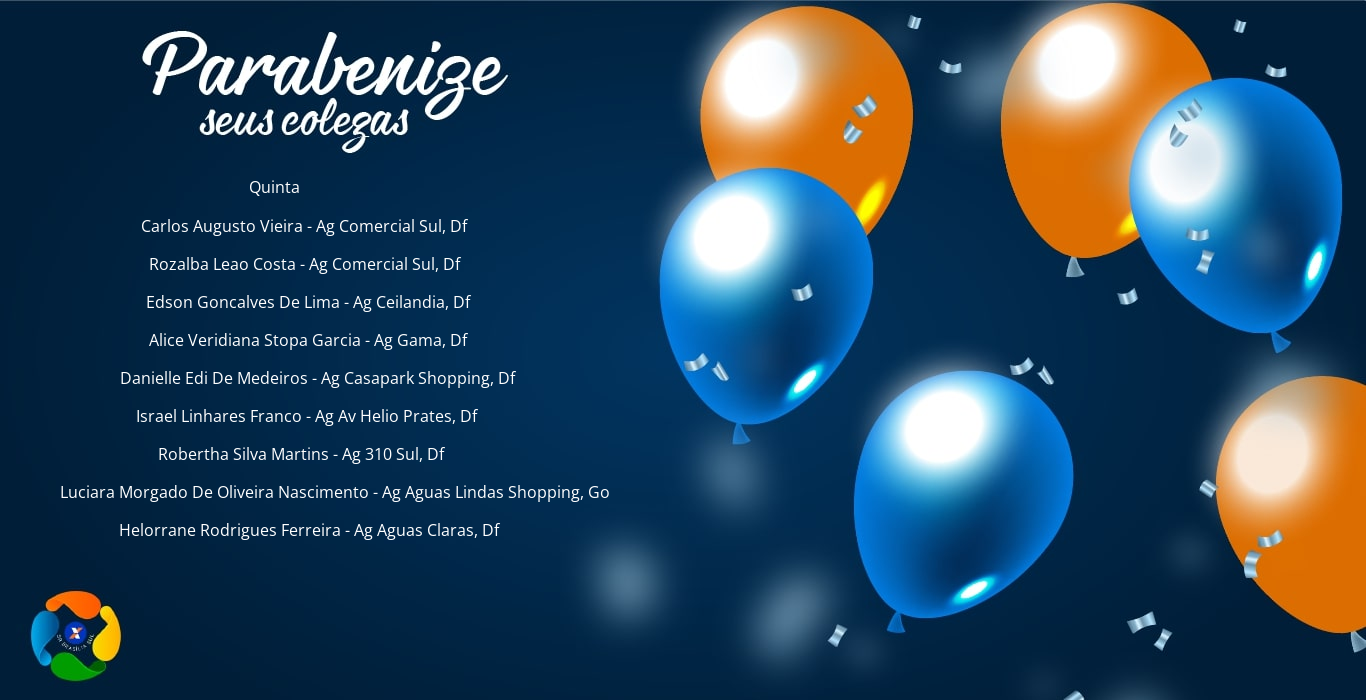
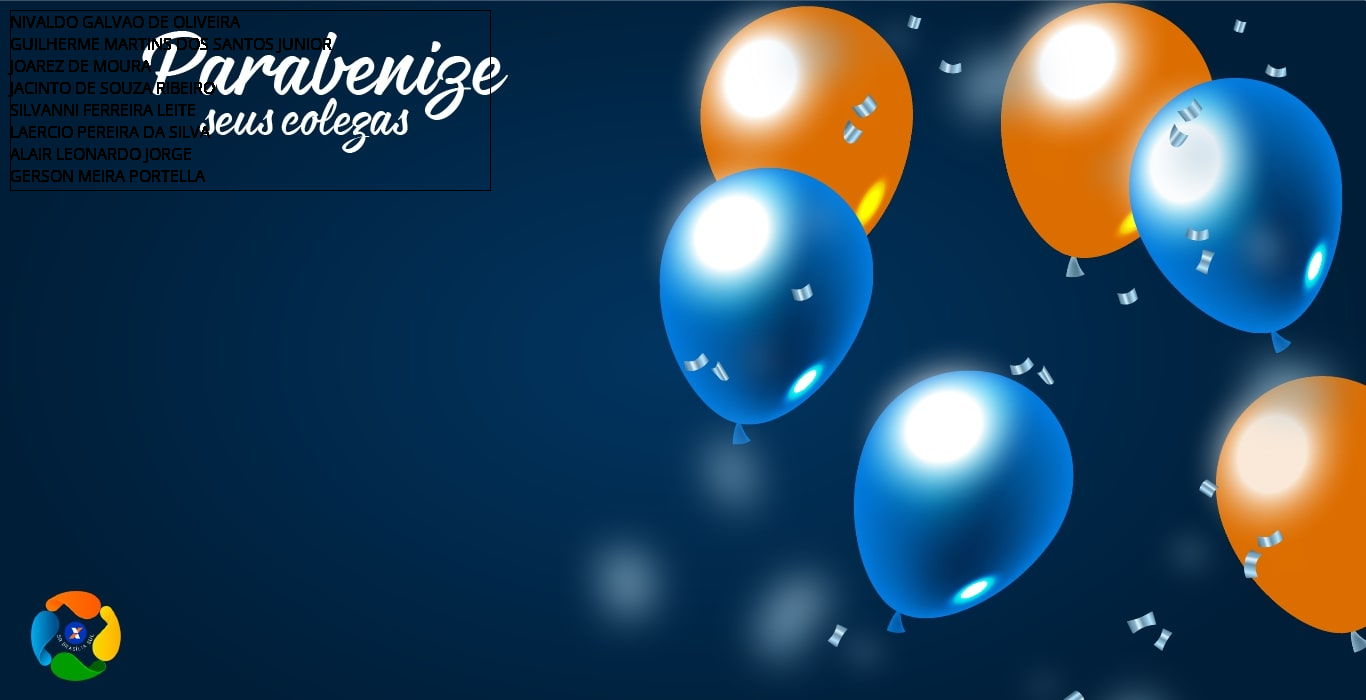
Break lines on text when draw image

diff --git a/main.py b/main.py
@@ -4,6 +4,14 @@ import textwrap
 import pandas as pd
 import datetime
 
+
+def received(mats):
+    text = ""
+    for x in mats:
+        text += x
+    return text
+
+
 outlook = client.Dispatch("Outlook.Application")
 
 df = pd.read_excel(
@@ -15,54 +23,10 @@ df = df[['Nome', 'Data', 'Matrícula']]
 #
 data_list = []
 for i in range(len(df)):
-    data_list.append({"Matrícula": df['Matrícula'][i]})
+    data_list.append({"Matrícula": df['Matrícula'][i], "Nome": df["Nome"][i]})
 
-# print(data_list)
-# index = 0
-# my_image = Image.open(
-#     "images/coletivo.jpg")
-#
-# title_text = []
-# font = ImageFont.truetype(
-#     'BebasNeue-Regular.ttf', 16)
-#
-# fontWeekDay = ImageFont.truetype(
-#     'BebasNeue-Regular.ttf', 22)
-#
-# sortedList = sorted(data_list, key=lambda x: x['dayOfTheWeek'])
-#
-# title_text = ExistingDayOfTheWeek(sortedList)
-
-# fontAss = ImageFont.truetype(
-#     'BebasNeue-Regular.ttf', 18)
-#
-# image_editable = ImageDraw.Draw(my_image)
-#
-# i = 0
-# y = 175
-# width2, height2 = font.getsize(dayWeekText[0])
-
-
-# image_editable.text(((800 - width2) / 3, y-30),
-#                     dayWeekText[0], font=fontWeekDay, fill="white", stroke_width=1, stroke_fill="white", align="baseline")
-# while i < len(title_text):
-#
-#     lines = textwrap.wrap(title_text[i], width=400)
-#     for line in lines:
-#         width, height = font.getsize(line)
-#         print(len(title_text))
-#         image_editable.text(((800 - width) / 3, y),
-#                             line.title(), font=font, fill="white", stroke_width=0, stroke_fill="white",
-#                             align="baseline")
-#         print(((height * 1.5) / (len(title_text))))
-#         y += height * \
-#              2 if len(title_text) < 6 else (
-#             ((height * 19) / (len(title_text))))
-#     i = i + 1
-
-# my_image.save("result.png", optimize=True, quality=100)
 j = 0
-message = outlook.CreateItem(0)
+
 mats = []
 while j < len(data_list):
     mats.append(data_list[j]["Matrícula"])
@@ -75,16 +39,72 @@ while j < len(data_list):
 #     message.BCC = ass['Assinatura'][2]
 #     message.Subject = "Feliz Aniversário!"
 
-def received(mats):
-    text = ""
-    for x in mats:
-        text += x
-    return text
 
-a = received(mats)
+n = 0
+nam = []
+while n < len(data_list):
+    nam.append(data_list[n]["Nome"] + "\n")
+    n += 1
 
-message.To = a
-message.Display()
+matriculas = received(mats)
+names = received(nam)
+message = outlook.CreateItem(0)
+message.To = matriculas
+# message.Display()
+
+# index = 0
+
+# Get original image
+my_image = Image.open(
+    "C:\\Users\\Arthur\\Desktop\\analisar t\\workspace\\send_leyman_email_coletivo\\images\\coletivo.jpg")
+
+# Specific title fonts
+
+
+# Specific body fonts
+# fontWeekDay = ImageFont.truetype(
+#     'BebasNeue-Regular.ttf', 22)
+
+
+# Get image to design
+
+
+# Constants to alignment text in image
+i = 0
+y = 175
+# Define dimension fonts
+# width2, height2 = font.getsize(names)
+
+
+box = ((10, 10, 490, 190))
+image_editable = ImageDraw.Draw(my_image)
+image_editable.rectangle(box, outline="#000")
+
+# names = "This is some\nexample text"
+font_size = 100
+size = None
+while (size is None or size[0] > box[2] - box[0] or size[1] > box[3] - box[1]) and font_size > 0:
+    font = ImageFont.truetype(
+        'C:\\Users\\Arthur\\Desktop\\analisar t\\workspace\\send_leyman_email_coletivo\\fonts\\BebasNeue-Regular.ttf',
+        16)
+    size = font.getsize_multiline(names)
+    font_size -= 1
+    image_editable.multiline_text((box[0], box[1]), names, "#000", font)
+#
+# lines = ""
+# # Break lines text`s on image
+# while i < len(names):
+#     lines = textwrap.wrap(names[i], width=400)
+#     y += 100
+#     i = i + 1
+# # for line in lines:
+# #     width, height = font.getsize(line)
+# image_editable.text(((200) / 3, y - 30), names, font=font, fill="white", stroke_width=1, stroke_fill="white",
+#                     align="baseline")
+
+# Save image final result
+my_image.save("C:\\Users\\Arthur\\Desktop\\analisar t\\workspace\\send_leyman_email_coletivo\\images\\result.png",
+              optimize=True, quality=100)
 
 # html_body = """
 #     <div>
